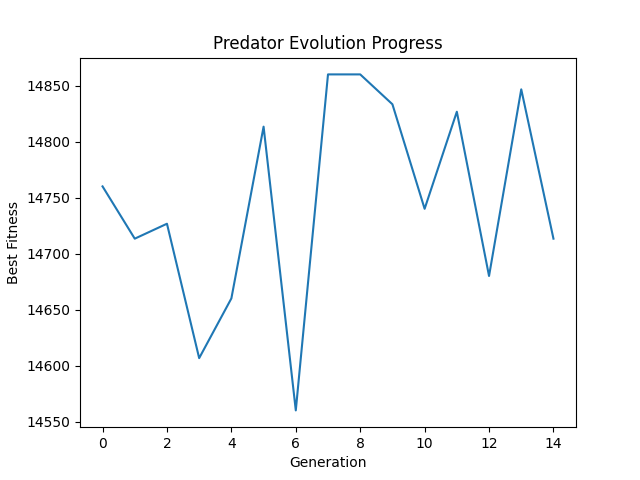
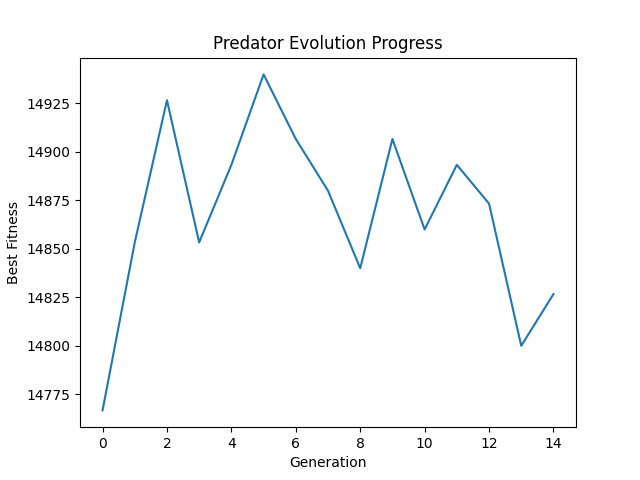
predator is chasing prey correctly and catches prey successfully

diff --git a/src/neat_utils/fitness.py b/src/neat_utils/fitness.py
@@ -89,28 +89,27 @@ def predator_fitness(ep):
 
 def predator_fitness(ep):
     trace = ep.trace
-
-    # 1. BIG reward for capture
+    
+    # 1. Big reward for capture
     if ep.captured:
-        return 5000 + (500 - ep.steps) * 20
+        return 5000 + (500 - ep.steps) * 20   # strong incentive
 
-    # 2. Reward based on *average distance reduction per step*
-    distances = [t["distance"] for t in trace]
-    dist_change = distances[0] - np.mean(distances)
-    dist_reward = dist_change * 40  # strong weight
+    # 2. Sum of distance reductions each step
+    dist_reward = 0
+    for i in range(1, len(trace)):
+        prev = trace[i-1]["distance"]
+        curr = trace[i]["distance"]
+        dist_reward += (prev - curr)  # positive if closing in
 
-    # 3. Reward for movement (anti-freeze)
+    # make the distance progress matter
+    dist_reward *= 15
+
+    # 3. Movement bonus (tiny)
     predator_positions = np.array([t["pred_pos"] for t in trace])
     deltas = np.linalg.norm(np.diff(predator_positions, axis=0), axis=1)
-    movement_reward = np.sum(deltas) * 5
+    movement = np.sum(deltas) * 0.2   # VERY small
 
-    # 4. Penalty when distance increases
-    distance_penalty = 0
-    for i in range(1, len(distances)):
-        if distances[i] > distances[i-1]:
-            distance_penalty -= (distances[i] - distances[i-1]) * 10
-
-    return dist_reward + movement_reward + distance_penalty
+    return dist_reward + movement
 
 def prey_fitness(ep):
     # reward staying alive

diff --git a/src/core/environment.py b/src/core/environment.py
@@ -58,22 +58,26 @@ class Environment:
             self.obstacles.append(Obstacle(x, y, r))
 
 
-        # place predator and prey randomly outside obstacles
+        # place predator first
         while True:
-            px = np.random.uniform(0, self.width)
-            py = np.random.uniform(0, self.height)
+            px = np.random.uniform(20, self.width - 20)
+            py = np.random.uniform(20, self.height - 20)
             if not self.collides_with_obstacle(px, py):
                 break
 
         self.predator = Agent(px, py, speed=2.0)
 
+        # place prey NEAR predator (within ±40 units)
         while True:
-            qx = np.random.uniform(0, self.width)
-            qy = np.random.uniform(0, self.height)
-            if not self.collides_with_obstacle(qx, qy):
-                break
+            qx = px + np.random.uniform(-40, 40)
+            qy = py + np.random.uniform(-40, 40)
 
-        self.prey = Agent(qx, qy, speed=1.3)
+            # must stay inside world bounds
+            if 0 <= qx <= self.width and 0 <= qy <= self.height:
+                if not self.collides_with_obstacle(qx, qy):
+                    break
+
+        self.prey = Agent(qx, qy, speed=1.1)
 
     
             

diff --git a/src/visualizations/pred_vs_prey.py b/src/visualizations/pred_vs_prey.py
@@ -7,6 +7,7 @@ from src.core.environment import Environment
 from src.core.simulation import run_episode
 from src.neat_utils.controllers import make_controller
 from src.visualizations.viz_utils import plot_episode_with_obstacles
+from src.neat_utils.dummy_controllers import GreedyPreyDummy
 
 
 PRED_PATH = "results/predator_training/best_predator.pkl"
@@ -35,12 +36,17 @@ def main():
         CONFIG_PATH
     )
 
-    # load trained predator and prey
-    pred_ctrl = load_network(PRED_PATH, config)
-    prey_ctrl = load_network(PREY_PATH, config)
-
     # new environment with obstacles
     env = Environment(num_obstacles=3)
+
+    # load trained predator and prey
+    pred_ctrl = load_network(PRED_PATH, config)
+
+    # prey_ctrl = load_network(PREY_PATH, config)
+    prey_ctrl = GreedyPreyDummy(env)
+
+
+    
 
     # run a single visualization episode
     ep = run_episode(pred_ctrl, prey_ctrl, env, T=500)
